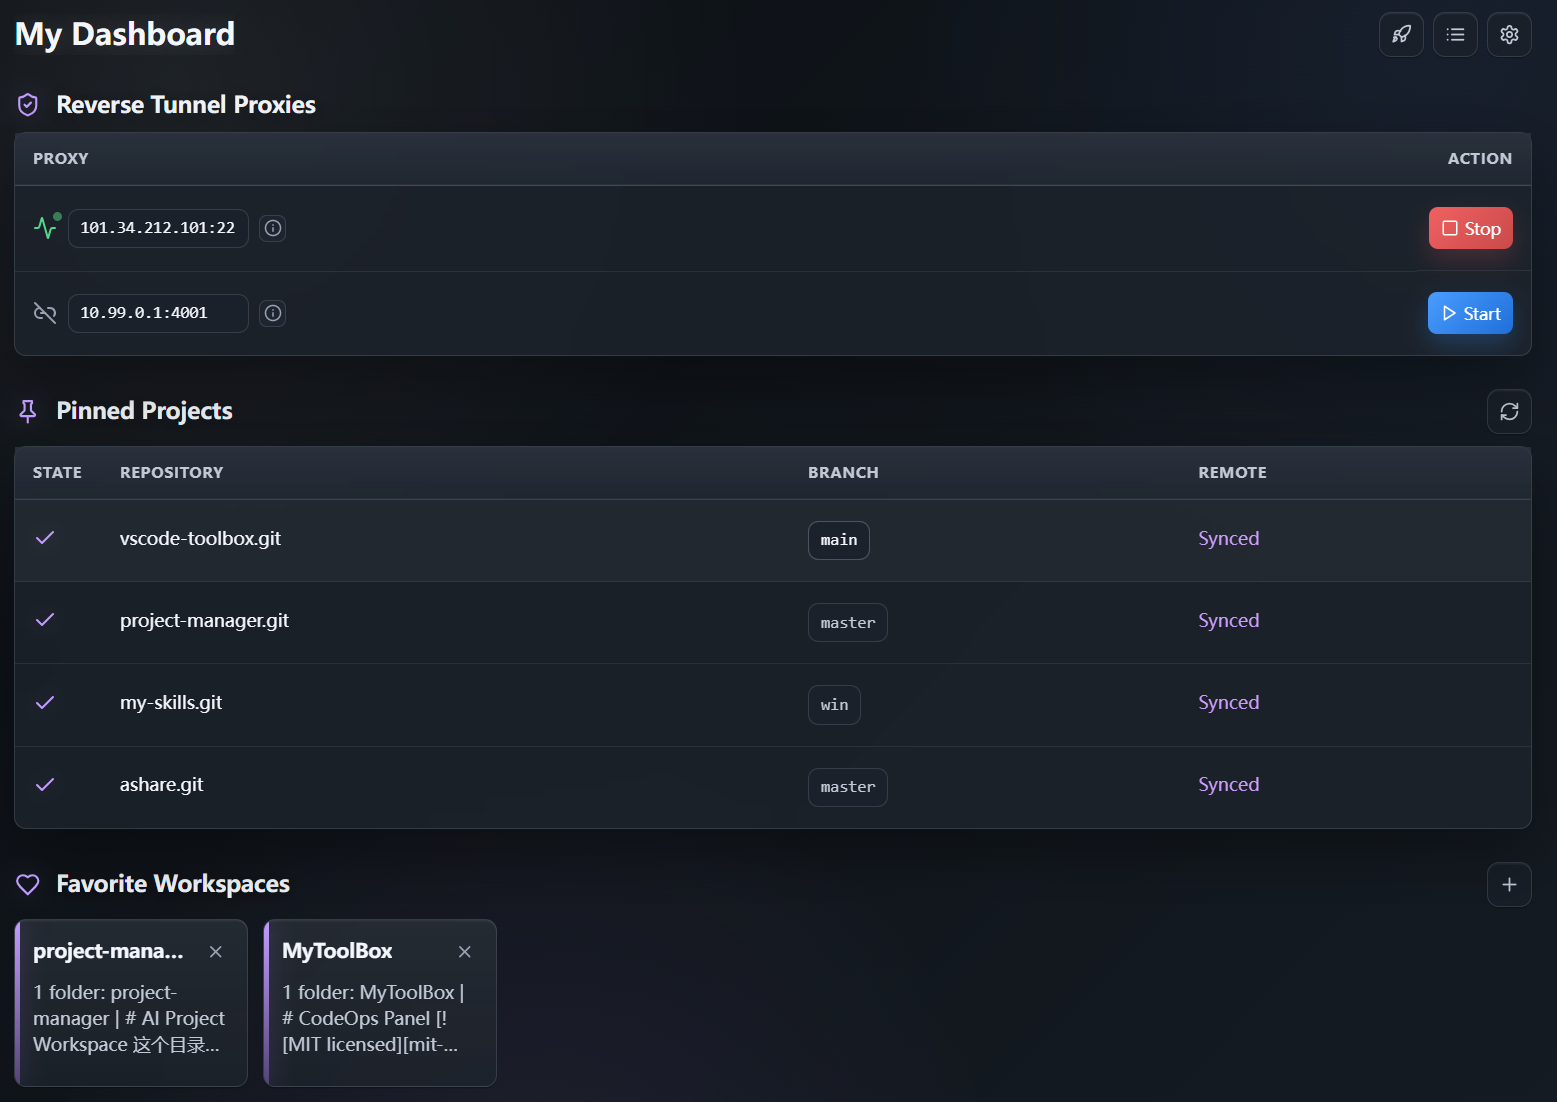
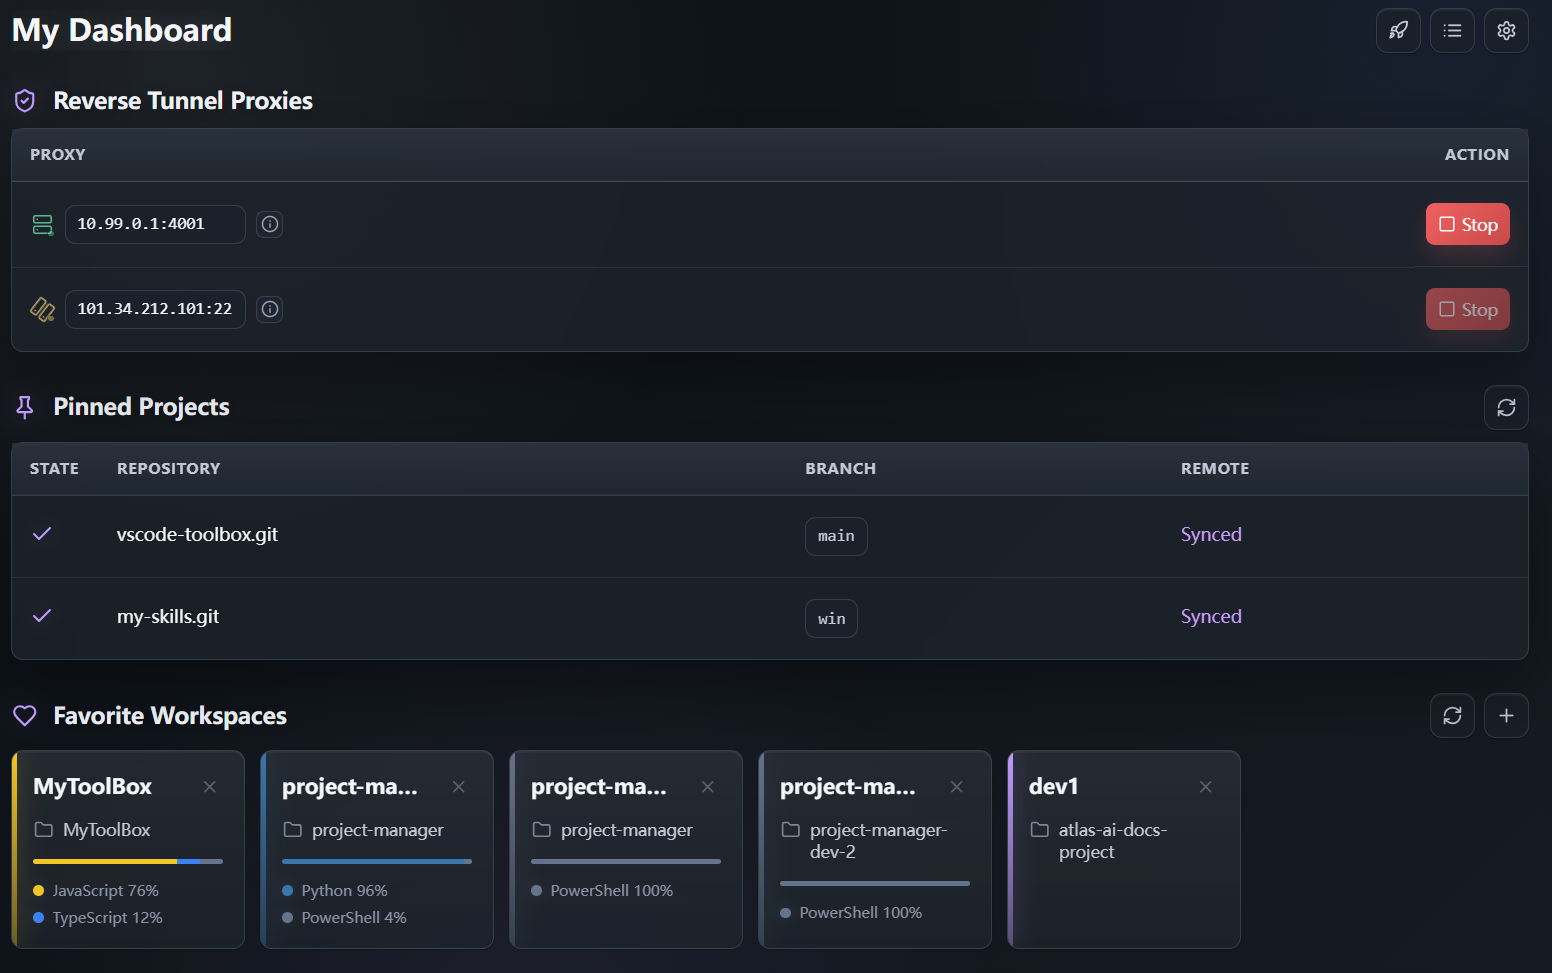
feat: refine tunnel and workspace UI

diff --git a/src/webview/render.ts b/src/webview/render.ts
@@ -34,6 +34,7 @@ function iconSvg(name: string, className = ''): string {
     plus: '<path d="M5 12h14"/><path d="M12 5v14"/>',
     rocket: '<path d="M4.5 16.5c-1.5 1.26-2 3.75-2 3.75s2.49-.5 3.75-2c.71-.84.7-2.13-.09-2.91a2.18 2.18 0 0 0-2.91-.09z"/><path d="m12 15-3-3a22 22 0 0 1 2-4.95A12.88 12.88 0 0 1 22 2c0 2.72-.78 7.5-5.05 11a22 22 0 0 1-4.95 2z"/><path d="M9 12H4s.55-3.03 2-4c1.62-1.08 5 0 5 0"/><path d="M12 15v5s3.03-.55 4-2c1.08-1.62 0-5 0-5"/>',
     refresh: '<path d="M3 12a9 9 0 0 1 9-9 9.75 9.75 0 0 1 6.74 2.74L21 8"/><path d="M21 3v5h-5"/><path d="M21 12a9 9 0 0 1-9 9 9.75 9.75 0 0 1-6.74-2.74L3 16"/><path d="M8 16H3v5"/>',
+    server: '<rect width="20" height="8" x="2" y="2" rx="2"/><rect width="20" height="8" x="2" y="14" rx="2"/><path d="M6 6h.01"/><path d="M6 18h.01"/>',
     settings: '<path d="M12.22 2h-.44a2 2 0 0 0-2 2v.18a2 2 0 0 1-1 1.73l-.43.25a2 2 0 0 1-2 0l-.15-.08a2 2 0 0 0-2.73.73l-.22.38a2 2 0 0 0 .73 2.73l.15.1a2 2 0 0 1 1 1.72v.51a2 2 0 0 1-1 1.74l-.15.09a2 2 0 0 0-.73 2.73l.22.38a2 2 0 0 0 2.73.73l.15-.08a2 2 0 0 1 2 0l.43.25a2 2 0 0 1 1 1.73V20a2 2 0 0 0 2 2h.44a2 2 0 0 0 2-2v-.18a2 2 0 0 1 1-1.73l.43-.25a2 2 0 0 1 2 0l.15.08a2 2 0 0 0 2.73-.73l.22-.39a2 2 0 0 0-.73-2.73l-.15-.08a2 2 0 0 1-1-1.74v-.5a2 2 0 0 1 1-1.74l.15-.09a2 2 0 0 0 .73-2.73l-.22-.38a2 2 0 0 0-2.73-.73l-.15.08a2 2 0 0 1-2 0l-.43-.25a2 2 0 0 1-1-1.73V4a2 2 0 0 0-2-2z"/><circle cx="12" cy="12" r="3"/>',
     shield: '<path d="M20 13c0 5-3.5 7.5-7.66 8.95a1 1 0 0 1-.67-.01C7.5 20.5 4 18 4 13V6a1 1 0 0 1 1-1c2 0 4.5-1.2 6.24-2.72a1.17 1.17 0 0 1 1.52 0C14.5 3.8 17 5 19 5a1 1 0 0 1 1 1z"/><path d="m9 12 2 2 4-4"/>',
     square: '<rect width="18" height="18" x="3" y="3" rx="2"/>',
@@ -51,19 +52,8 @@ function getReverseTunnelActionIconSvg(actionId: string): string {
 }
 
 function getReverseTunnelStateIconSvg(tone: 'connected' | 'external' | 'starting' | 'failed' | 'stopped'): string {
-  if (tone === 'connected') {
-    return '<span class="state-pulse-wrap">' + iconSvg('activity') + '<span class="state-pulse-dot"></span></span>';
-  }
-  if (tone === 'external') {
-    return '<span class="state-pulse-wrap">' + iconSvg('activity') + '<span class="state-pulse-dot"></span></span>';
-  }
-  if (tone === 'starting') {
-    return iconSvg('loader');
-  }
-  if (tone === 'failed') {
-    return iconSvg('x');
-  }
-  return iconSvg('linkOff');
+  const pulse = tone === 'connected' || tone === 'external' || tone === 'starting' ? ' pulse' : '';
+  return '<span class="rt-server-state">' + iconSvg('server') + '<span class="rt-server-state-dot ' + escapeHtml(tone) + pulse + '"></span></span>';
 }
 
 function getKeyProjectsToolbarIconSvg(actionId: string): string {
@@ -289,7 +279,6 @@ export function renderToolBoxWebview(webview: vscode.Webview, model: any): strin
         '    </span>',
         '  </span>',
         folderSummary ? '  <span class="workspace-folders"><span class="workspace-folder-icon" aria-hidden="true">' + iconSvg('folder') + '</span><span class="workspace-folder-text">' + escapeHtml(folderSummary) + '</span></span>' : '  <span class="workspace-folders empty-description"></span>',
-        languageRows ? '  <span class="workspace-language-divider" aria-hidden="true"></span>' : '',
         languageDistributionBar,
         languageRows ? '  <span class="workspace-languages">' + languageRows + '</span>' : '',
         '</button>'
@@ -556,35 +545,65 @@ export function renderToolBoxWebview(webview: vscode.Webview, model: any): strin
       height: 16px;
     }
     .rt-state-icon.connected {
-      color: var(--success);
+      color: color-mix(in srgb, var(--success) 72%, var(--muted));
     }
     .rt-state-icon.external {
-      color: var(--blue-400);
+      color: color-mix(in srgb, var(--blue-400) 72%, var(--muted));
     }
     .rt-state-icon.starting {
-      color: var(--amber-400);
-      animation: spin 1s linear infinite;
+      color: color-mix(in srgb, var(--amber-400) 72%, var(--muted));
     }
     .rt-state-icon.failed {
-      color: var(--danger-500);
+      color: color-mix(in srgb, var(--danger-500) 76%, var(--muted));
     }
     .rt-state-icon.stopped {
       color: var(--muted);
     }
-    .state-pulse-wrap {
+    .rt-server-state {
       position: relative;
       display: inline-flex;
-      width: 16px;
-      height: 16px;
+      align-items: center;
+      justify-content: center;
+      width: 15px;
+      height: 15px;
     }
-    .state-pulse-dot {
+    .rt-server-state svg {
+      width: 14px;
+      height: 14px;
+      stroke-width: 1.8;
+      opacity: 0.88;
+    }
+    .rt-state-icon.starting .rt-server-state svg {
+      animation: spin 1.2s linear infinite;
+    }
+    .rt-server-state-dot {
       position: absolute;
-      top: -3px;
-      right: -3px;
-      width: 6px;
-      height: 6px;
+      right: -1px;
+      bottom: -1px;
+      width: 5px;
+      height: 5px;
       border-radius: 999px;
+      border: 1px solid var(--bg-soft);
       background: currentColor;
+    }
+    .rt-server-state-dot.connected {
+      color: var(--success);
+    }
+    .rt-server-state-dot.external {
+      color: var(--blue-400);
+    }
+    .rt-server-state-dot.starting {
+      color: var(--amber-400);
+    }
+    .rt-server-state-dot.failed {
+      color: var(--danger-500);
+    }
+    .rt-server-state-dot.stopped {
+      color: var(--muted);
+      background: transparent;
+      border-color: currentColor;
+    }
+    .rt-server-state-dot.pulse {
       animation: pulse 2s cubic-bezier(.4, 0, .6, 1) infinite;
     }
     .rt-info-icon {
@@ -951,13 +970,6 @@ export function renderToolBoxWebview(webview: vscode.Webview, model: any): strin
     }
     .workspace-folders.empty-description {
       min-height: 0;
-    }
-    .workspace-language-divider {
-      display: block;
-      height: 1px;
-      width: 100%;
-      background: color-mix(in srgb, var(--border) 62%, transparent);
-      margin: 1px 0 0;
     }
     .workspace-language-bar {
       display: flex;

diff --git a/src/app.ts b/src/app.ts
@@ -784,6 +784,11 @@ function isFileNotFoundError(error: unknown): boolean {
   return /FileNotFound|EntryNotFound|ENOENT/i.test(details);
 }
 
+function isFileSystemProviderUnavailableError(error: unknown): boolean {
+  const details = error instanceof Error ? `${error.name} ${error.message}` : String(error);
+  return /ENOPRO|No file system provider|file system provider|文件系统提供程序/i.test(details);
+}
+
 async function getKeyProjectsConfig(workspacePath?: string): Promise<KeyProjectsConfig> {
   void workspacePath;
   const { configPath, configUri } = getConfiguredConfigFileRef();
@@ -1111,7 +1116,9 @@ async function scanFavoriteWorkspaceFolder(folderUri: vscode.Uri, languageBytes:
   try {
     entries = await vscode.workspace.fs.readDirectory(folderUri);
   } catch (error) {
-    if (!isFileNotFoundError(error)) {
+    if (isFileSystemProviderUnavailableError(error)) {
+      appendDebugLine(`[favorite-workspaces] skipped scan for unavailable filesystem provider '${folderUri.toString()}': ${error instanceof Error ? error.message : String(error)}`);
+    } else if (!isFileNotFoundError(error)) {
       outputChannel?.appendLine(`[favorite-workspaces] failed to scan '${folderUri.toString()}': ${error instanceof Error ? error.message : String(error)}`);
     }
     return;
@@ -1146,7 +1153,9 @@ async function scanFavoriteWorkspaceFolder(folderUri: vscode.Uri, languageBytes:
       }
       languageBytes.set(language, (languageBytes.get(language) ?? 0) + stat.size);
     } catch (error) {
-      if (!isFileNotFoundError(error)) {
+      if (isFileSystemProviderUnavailableError(error)) {
+        appendDebugLine(`[favorite-workspaces] skipped stat for unavailable filesystem provider '${entryUri.toString()}': ${error instanceof Error ? error.message : String(error)}`);
+      } else if (!isFileNotFoundError(error)) {
         outputChannel?.appendLine(`[favorite-workspaces] failed to stat '${entryUri.toString()}': ${error instanceof Error ? error.message : String(error)}`);
       }
     }

diff --git a/test/suite/extension.test.ts b/test/suite/extension.test.ts
@@ -637,6 +637,8 @@ suite('CodeOps Panel Extension Integration Tests', () => {
       assert.ok(html.includes('class="rt-proxy-main"'), 'Reverse tunnel should combine state, host, and info in one proxy cell');
       assert.ok(html.includes('class="rt-host-code">10.99.0.1:4001</code>'), 'Host should render with inline-code styling');
       assert.ok(html.includes('class="rt-state-icon stopped"'), 'Stopped state should render as icon class');
+      assert.ok(html.includes('class="rt-server-state"'), 'Reverse tunnel state should render as a compact server icon');
+      assert.ok(html.includes('class="rt-server-state-dot stopped"'), 'Reverse tunnel server icon should include a status dot');
       assert.ok(html.includes('class="rt-info-icon"'), 'Info icon should be rendered next to state icon');
       assert.ok(html.includes('class="rt-action-button start"'), 'Start action button should be rendered');
       assert.ok(html.includes('data-tooltip="remote: 10.99.0.1:4001'), 'Info icon should use immediate custom tooltip data');
@@ -698,7 +700,7 @@ suite('CodeOps Panel Extension Integration Tests', () => {
     assert.ok(html.includes('Frontend Development, api, +1 more'), 'Folder summary should render');
     assert.ok(html.includes('class="workspace-folder-icon"'), 'Folder summary should render with a folder icon');
     assert.ok(!html.includes('3 folders:'), 'Folder summary should not include folder count prefix');
-    assert.ok(!html.includes('class="workspace-language-divider"'), 'Language divider should not render without languages');
+    assert.ok(!html.includes('workspace-language-divider'), 'Language divider should not render');
     assert.ok(!html.includes('class="workspace-language-bar"'), 'Language distribution should not render without languages');
     assert.ok(html.includes('data-workspace-path="'), 'Workspace card should include open path data');
     assert.ok(html.includes('data-workspace-remove="'), 'Workspace card should include remove path data');
@@ -781,7 +783,7 @@ suite('CodeOps Panel Extension Integration Tests', () => {
     assert.ok(!model.rows[0]?.languageSummary.includes('Python'), 'Ignored directories should not contribute languages');
     assert.strictEqual(model.rows[0]?.languages.length, 2);
     const html = (await vscode.commands.executeCommand('reverseProxy.test.renderToolBoxHtml')) as string;
-    assert.ok(html.includes('class="workspace-language-divider"'), 'Language divider should render when languages exist');
+    assert.ok(!html.includes('workspace-language-divider'), 'Language divider should not render');
     assert.ok(html.includes('class="workspace-language-bar"'), 'Language distribution bar should render when languages exist');
     assert.ok(html.includes('workspace-language-segment typescript'), 'TypeScript distribution segment should render');
     assert.ok(html.includes('workspace-language-dot typescript'), 'TypeScript language dot should render');